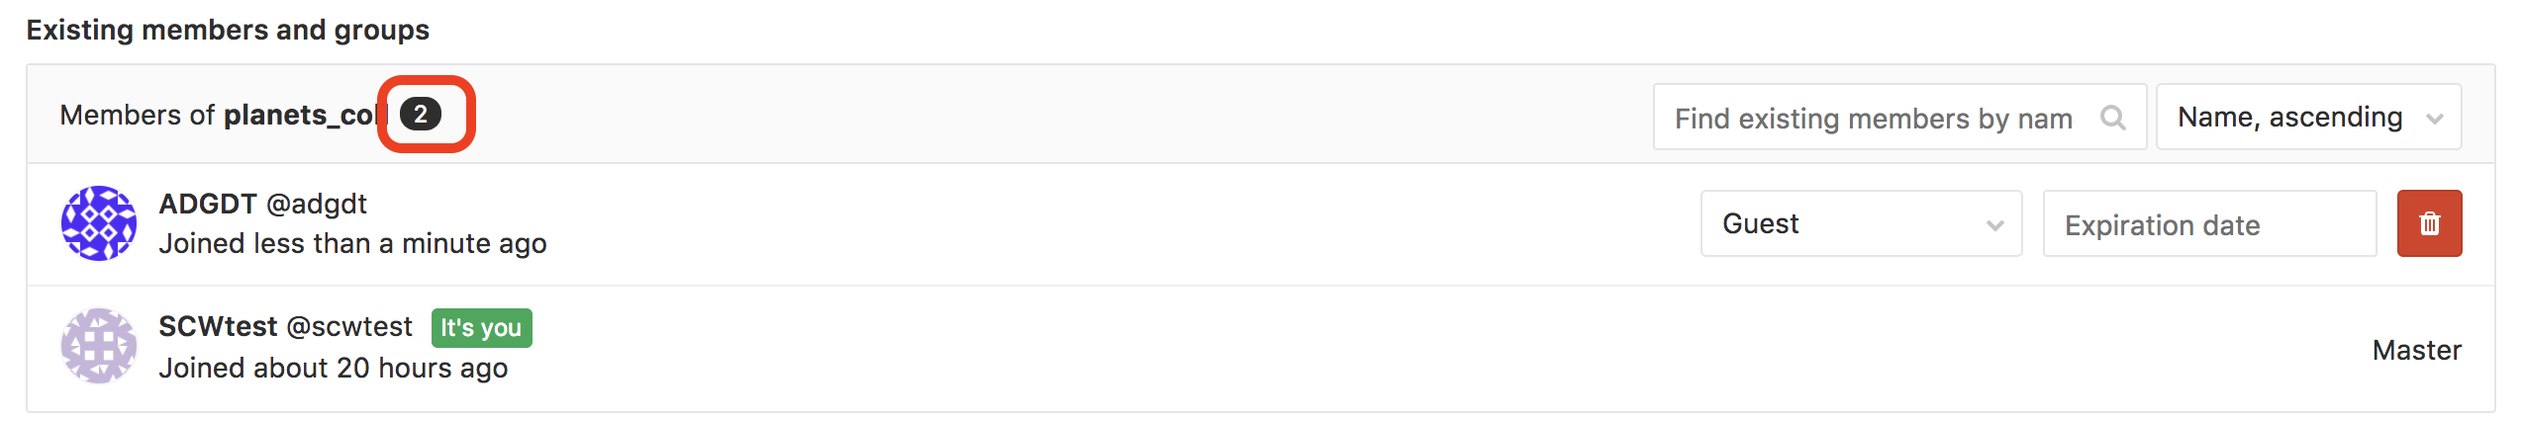
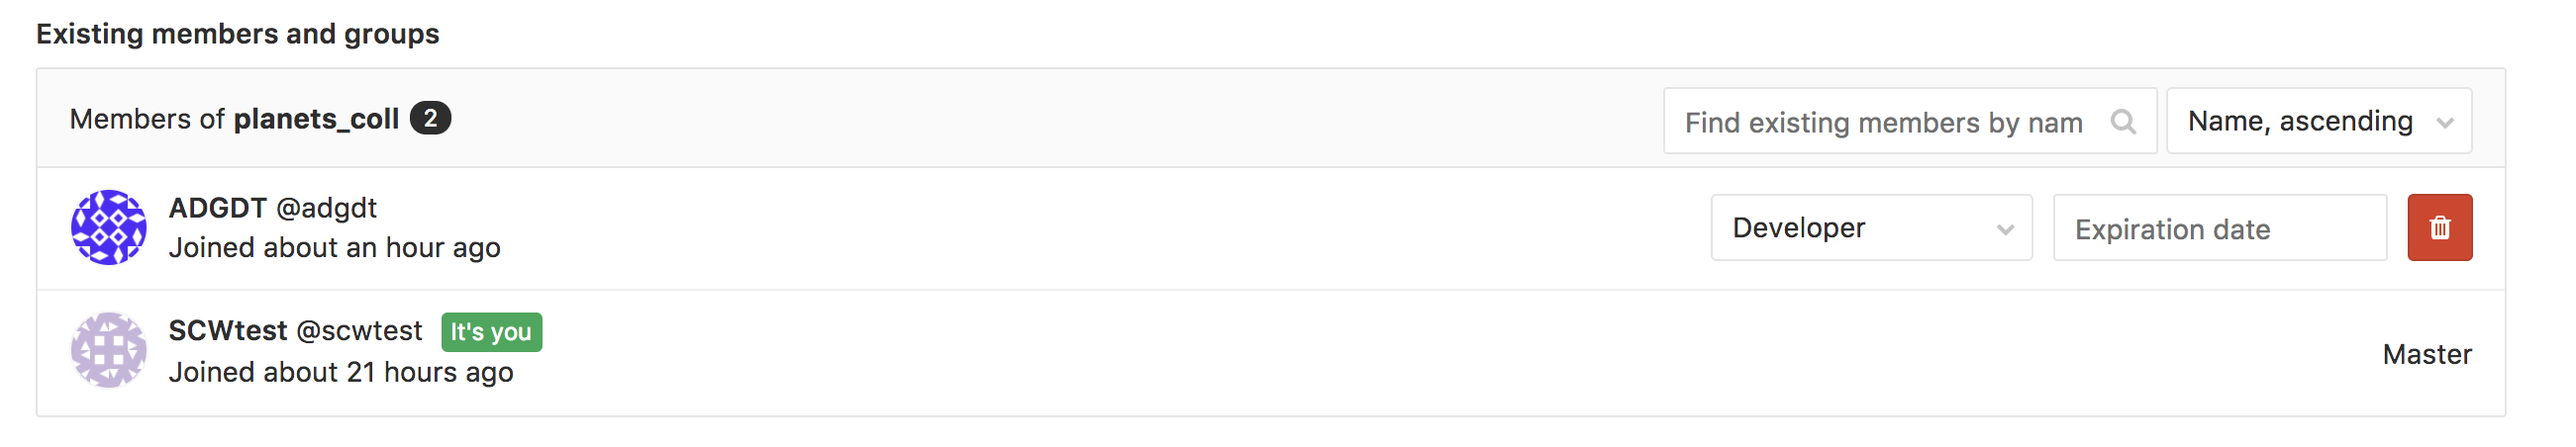
Full versioned 08_v1.1. Images changed to include Dev Role and review needed

diff --git a/_episodes/08-collab.md b/_episodes/08-collab.md
@@ -39,7 +39,8 @@ Click on the textfield "Select members to invite" and pick your Collaborator:
 > role is well enougth, as well as for the requierements for a real-world scientific collaborator. 
 > If you need a different permission level for your collaborators have a look to the [GitLab documentation](https://docs.gitlab.com/ee/user/permissions.html).
 >
-> ~~
+{: .callout}
+~~~
 ![Adding Collaborator](../fig/gitlab-add-collaborator-03.png)
 ![Finishing the proccess](../fig/gitlab-add-collaborator-04.png)
 
